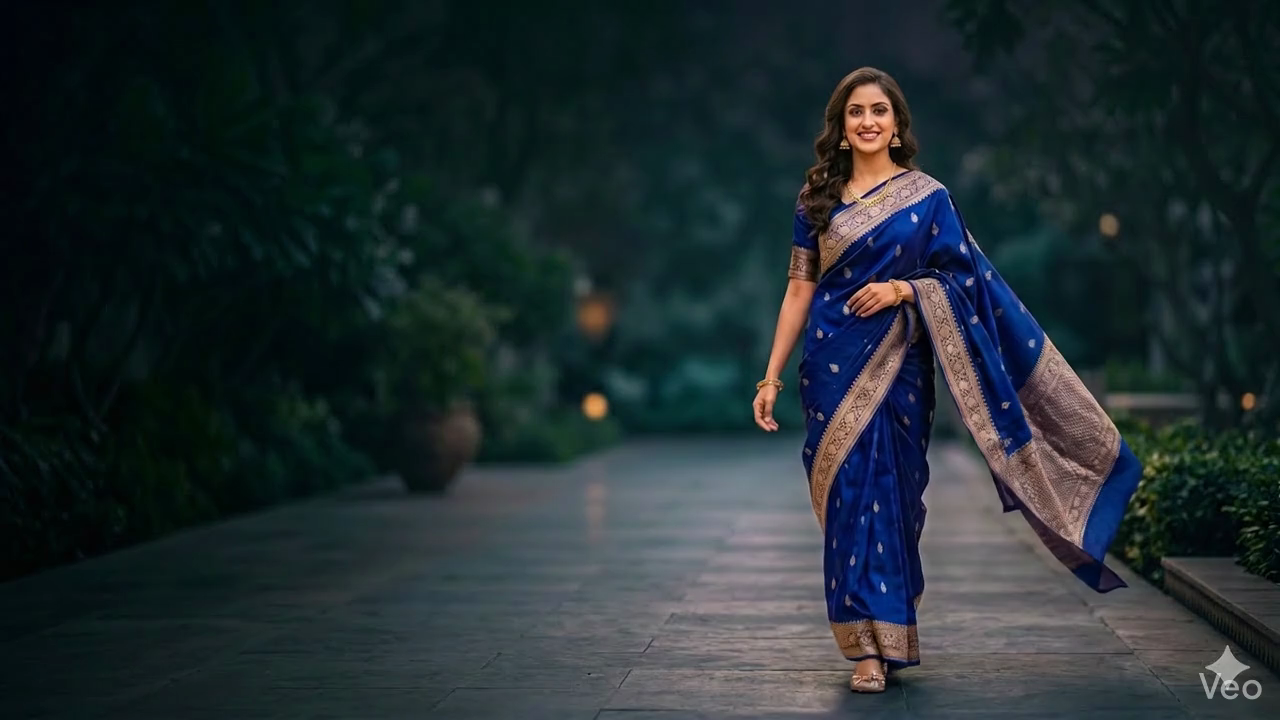
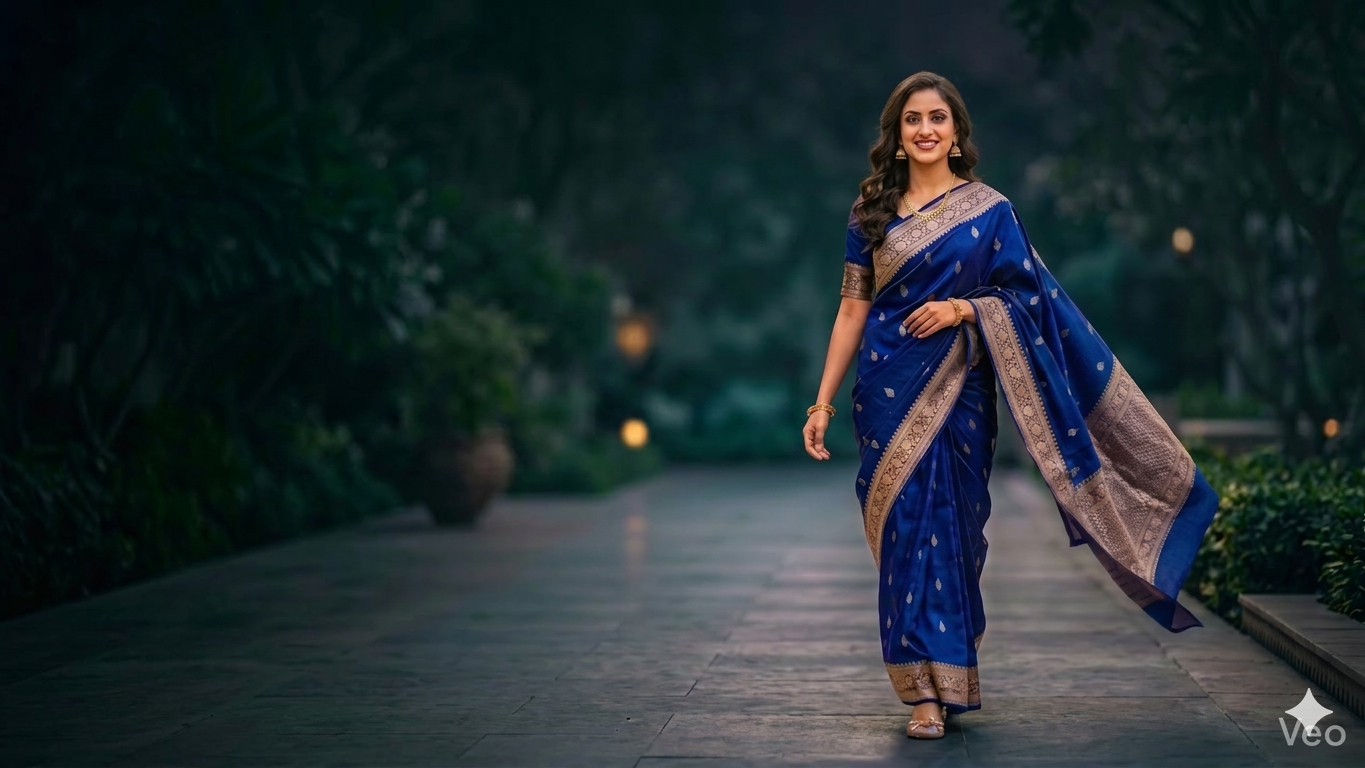
removed theme changing

diff --git a/app/components/Navbar.tsx b/app/components/Navbar.tsx
@@ -2,7 +2,7 @@
 
 import Link from "next/link";
 import { useState, useEffect } from "react";
-import { Search, Heart, Moon, ShoppingBag, Menu, X } from "lucide-react";
+import { Search, Heart, ShoppingBag, Menu, X } from "lucide-react";
 
 export default function Navbar() {
   const [scrolled, setScrolled] = useState(false);
@@ -27,7 +27,7 @@ export default function Navbar() {
   return (
     <>
       <nav
-        className={`fixed top-0 left-0 right-0 z-50 transition-all duration-300 backdrop-blur-md bg-black/60 border-b border-white/10 ${
+        className={`fixed top-0 left-0 right-0 z-50 transition-all duration-300 backdrop-blur-md bg-black/60 border-white/10 border-b ${
           scrolled ? "py-3 shadow-lg" : "py-4"
         }`}
       >
@@ -44,7 +44,7 @@ export default function Navbar() {
               <Link
                 key={link.label}
                 href={link.href}
-                className="text-[11px] font-semibold tracking-[0.15em] transition-colors hover:text-[#B88E52] text-white/80"
+                className="text-[11px] font-semibold tracking-[0.15em] transition-colors text-white/80 hover:text-[#B88E52]"
               >
                 {link.label}
               </Link>
@@ -58,9 +58,6 @@ export default function Navbar() {
             </button>
             <button className="text-white/80 hover:text-[#B88E52] transition-colors hidden sm:block">
               <Heart size={18} strokeWidth={1.5} />
-            </button>
-            <button className="text-white/80 hover:text-[#B88E52] transition-colors rounded-full border border-white/20 p-1.5 hidden sm:block">
-              <Moon size={16} strokeWidth={1.5} />
             </button>
             <button
               className="flex items-center space-x-2 px-5 py-2.5 rounded-full text-white text-[13px] font-medium transition-transform hover:scale-105"
@@ -80,7 +77,7 @@ export default function Navbar() {
 
         {/* Mobile Menu */}
         {mobileMenuOpen && (
-          <div className="lg:hidden absolute top-full left-0 right-0 bg-black/90 backdrop-blur-md border-t border-white/10 py-4 px-6 shadow-lg flex flex-col space-y-4">
+          <div className="lg:hidden absolute top-full left-0 right-0 backdrop-blur-md py-4 px-6 shadow-lg flex flex-col space-y-4 border-t bg-black/90 border-white/10">
             {navLinks.map((link) => (
               <Link
                 key={link.label}

diff --git a/app/components/ScrollCanvas.tsx b/app/components/ScrollCanvas.tsx
@@ -5,7 +5,7 @@ import { useEffect, useRef, useState } from "react";
 const FRAME_COUNT = 144;
 
 function currentFrame(index: number) {
-  return `/Dark_frames/Dark_${index.toString().padStart(3, "0")}.png`;
+  return `/LightFrames/Indian_woman_model_transforms_saree_202605091520_${index.toString().padStart(3, "0")}.png`;
 }
 
 export default function ScrollCanvas() {
@@ -14,6 +14,7 @@ export default function ScrollCanvas() {
   const [loaded, setLoaded] = useState(false);
 
   useEffect(() => {
+    setLoaded(false);
     // Preload all frames
     const preloadedImages: HTMLImageElement[] = [];
     let loadedCount = 0;
@@ -123,10 +124,10 @@ export default function ScrollCanvas() {
   }, [loaded, images]);
 
   return (
-    <div className="fixed top-[68px] left-0 w-full h-[calc(100vh-68px)] z-0 bg-black pointer-events-none">
+    <div className="fixed top-[68px] left-0 w-full h-[calc(100vh-68px)] z-0 pointer-events-none bg-black">
       {!loaded && (
-        <div className="absolute inset-0 flex flex-col items-center justify-center text-peacock-accent bg-black z-20">
-          <div className="w-12 h-12 border-4 border-peacock-accent/30 border-t-peacock-accent rounded-full animate-spin mb-4" />
+        <div className="absolute inset-0 flex flex-col items-center justify-center z-20 text-peacock-accent bg-black">
+          <div className="w-12 h-12 border-4 rounded-full animate-spin mb-4 border-peacock-accent/30 border-t-peacock-accent" />
           <div className="text-xl font-light tracking-widest animate-pulse">
             LOADING EXPERIENCE...
           </div>
@@ -134,10 +135,11 @@ export default function ScrollCanvas() {
       )}
       <canvas
         ref={canvasRef}
-        className="block w-full h-full object-cover"
+        className="block w-full h-full object-cover transition-opacity duration-300"
+        style={{ opacity: loaded ? 1 : 0 }}
       />
       {/* Dimmed overlay for better text contrast */}
-      <div className="absolute inset-0 bg-black/10 z-10" />
+      <div className="absolute inset-0 z-10 bg-black/0" />
     </div>
   );
 }

diff --git a/app/components/Collections.tsx b/app/components/Collections.tsx
@@ -2,16 +2,16 @@ import { Section } from "./Section";
 
 export function Collections() {
   return (
-    <Section align="right">
-      <div className="max-w-2xl">
-        <h2 className="text-5xl md:text-7xl font-semibold mb-6 text-peacock-accent">
+    <Section align="left">
+      <div className="max-w-2xl bg-white/40 backdrop-blur-md p-8 rounded-3xl shadow-xl border border-white/30">
+        <h2 className="text-5xl md:text-7xl font-bold mb-6 text-peacock-900 drop-shadow-sm">
           Curated Collections
         </h2>
-        <p className="text-xl text-gray-300 font-light leading-relaxed mb-8">
+        <p className="text-xl font-medium leading-relaxed mb-8 text-gray-900 drop-shadow-sm">
           From Banarasi brocades to Kanjeevaram silks, each piece tells a story. 
           Discover our diverse array of traditional and contemporary sarees crafted for modern royalty.
         </p>
-        <button className="px-8 py-4 border border-peacock-accent text-peacock-accent hover:bg-peacock-accent hover:text-black font-semibold rounded-full transition-all duration-300">
+        <button className="px-8 py-4 border-2 font-bold rounded-full transition-all duration-300 border-peacock-900 text-peacock-900 hover:bg-peacock-900 hover:text-white shadow-lg">
           View Collection
         </button>
       </div>

diff --git a/app/components/Offers.tsx b/app/components/Offers.tsx
@@ -2,16 +2,16 @@ import { Section } from "./Section";
 
 export function Offers() {
   return (
-    <Section align="left">
-      <div className="max-w-2xl">
-        <h2 className="text-5xl md:text-7xl font-semibold mb-6 text-peacock-300">
+    <Section align="right">
+      <div className="max-w-2xl bg-white/40 backdrop-blur-md p-8 rounded-3xl shadow-xl border border-white/30">
+        <h2 className="text-5xl md:text-7xl font-bold mb-6 text-peacock-900 drop-shadow-sm">
           Exclusive Offers
         </h2>
-        <p className="text-xl text-gray-300 font-light leading-relaxed mb-8">
+        <p className="text-xl font-medium leading-relaxed mb-8 text-gray-900 drop-shadow-sm">
           Embrace the season&apos;s joy with up to 40% off on our premium silk and handcrafted collections. 
           Elevate your wardrobe with the magic of rich textures and vibrant hues.
         </p>
-        <button className="px-8 py-4 bg-peacock-500 hover:bg-peacock-accent text-black font-semibold rounded-full transition-all duration-300 transform hover:scale-105">
+        <button className="px-8 py-4 font-semibold rounded-full transition-all duration-300 transform hover:scale-105 bg-peacock-700 hover:bg-peacock-900 text-white shadow-lg">
           Explore Offers
         </button>
       </div>

diff --git a/app/components/About.tsx b/app/components/About.tsx
@@ -3,11 +3,11 @@ import { Section } from "./Section";
 export function About() {
   return (
     <Section align="center">
-      <div className="max-w-4xl">
-        <h2 className="text-5xl md:text-7xl font-semibold mb-8 text-peacock-100">
+      <div className="max-w-4xl bg-white/40 backdrop-blur-md p-10 rounded-3xl shadow-xl border border-white/30">
+        <h2 className="text-5xl md:text-7xl font-bold mb-8 text-peacock-900 drop-shadow-sm">
           Our Heritage
         </h2>
-        <p className="text-2xl text-peacock-300 font-light leading-relaxed">
+        <p className="text-2xl font-medium leading-relaxed text-gray-900 drop-shadow-sm">
           For over three decades, Saree Bazar has been synonymous with authenticity and supreme quality. 
           We partner directly with master weavers across India to bring you the purest fabrics and 
           the most intricate designs, ensuring our rich cultural tapestry thrives.

diff --git a/app/components/Hero.tsx b/app/components/Hero.tsx
@@ -2,11 +2,11 @@ import { Section } from "./Section";
 
 export function Hero() {
   return (
-    <Section align="center">
-      <h1 className="text-6xl md:text-8xl font-bold tracking-tighter mb-6 bg-gradient-to-r from-peacock-100 to-peacock-500 bg-clip-text text-transparent">
+    <Section align="left">
+      <h1 className="text-6xl md:text-8xl font-bold tracking-tighter mb-6 bg-gradient-to-r from-peacock-700 to-peacock-900 bg-clip-text text-transparent drop-shadow-sm">
         Saree Bazar
       </h1>
-      <p className="text-xl md:text-2xl text-peacock-100 max-w-2xl font-light">
+      <p className="text-xl md:text-2xl max-w-2xl font-medium text-peacock-900 drop-shadow-sm">
         Elegance woven in every thread. Experience the legacy of timeless craftsmanship.
       </p>
     </Section>

diff --git a/app/layout.tsx b/app/layout.tsx
@@ -26,9 +26,9 @@ export default function RootLayout({
   return (
     <html
       lang="en"
-      className={`${geistSans.variable} ${geistMono.variable} h-full antialiased`}
+      className={`${geistSans.variable} ${geistMono.variable} h-full antialiased dark`}
     >
-      <body className="min-h-full flex flex-col">
+      <body className="min-h-full flex flex-col bg-black text-white">
         <Navbar />
         {children}
       </body>

diff --git a/app/page.tsx b/app/page.tsx
@@ -8,7 +8,7 @@ export const metadata = {
 
 export default function Home() {
   return (
-    <main className="bg-black min-h-screen relative font-sans selection:bg-peacock-500 selection:text-white">
+    <main className="min-h-screen relative font-sans selection:bg-peacock-500 selection:text-white">
       <ScrollCanvas />
       <ContentOverlay />
     </main>

diff --git a/app/components/ContentOverlay.tsx b/app/components/ContentOverlay.tsx
@@ -7,7 +7,7 @@ import { About } from "./About";
 
 export default function ContentOverlay() {
   return (
-    <div className="relative z-10 w-full text-white">
+    <div className="relative z-10 w-full transition-colors duration-300">
       <Hero />
       <Offers />
       <Collections />

diff --git a/app/globals.css b/app/globals.css
@@ -25,6 +25,16 @@
   }
 }
 
+html.light {
+  --background: #ffffff;
+  --foreground: #171717;
+}
+
+html.dark {
+  --background: #0a0a0a;
+  --foreground: #ededed;
+}
+
 body {
   background: var(--background);
   color: var(--foreground);
